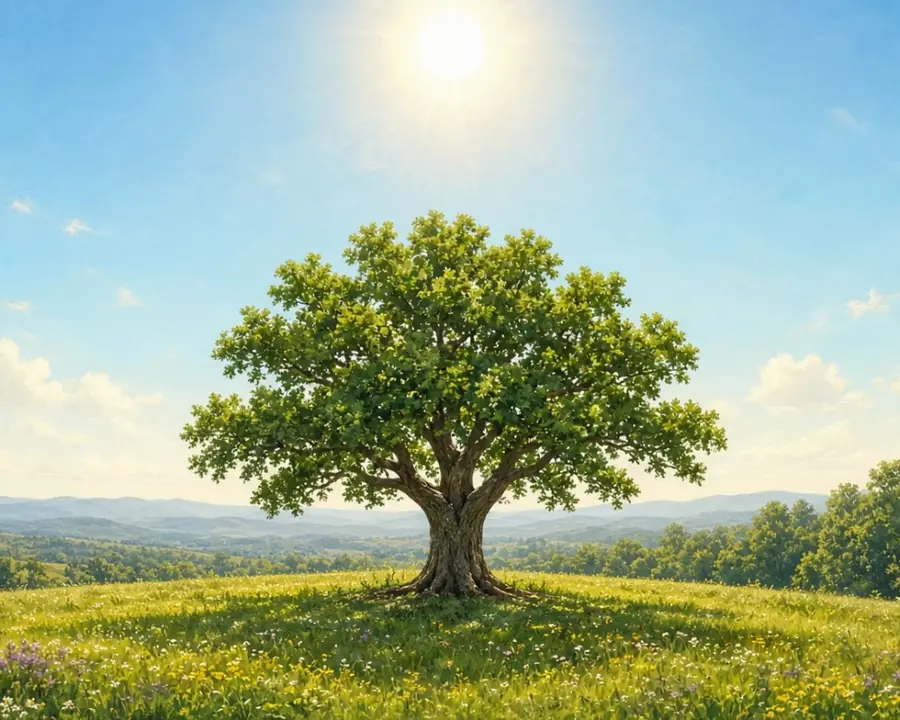
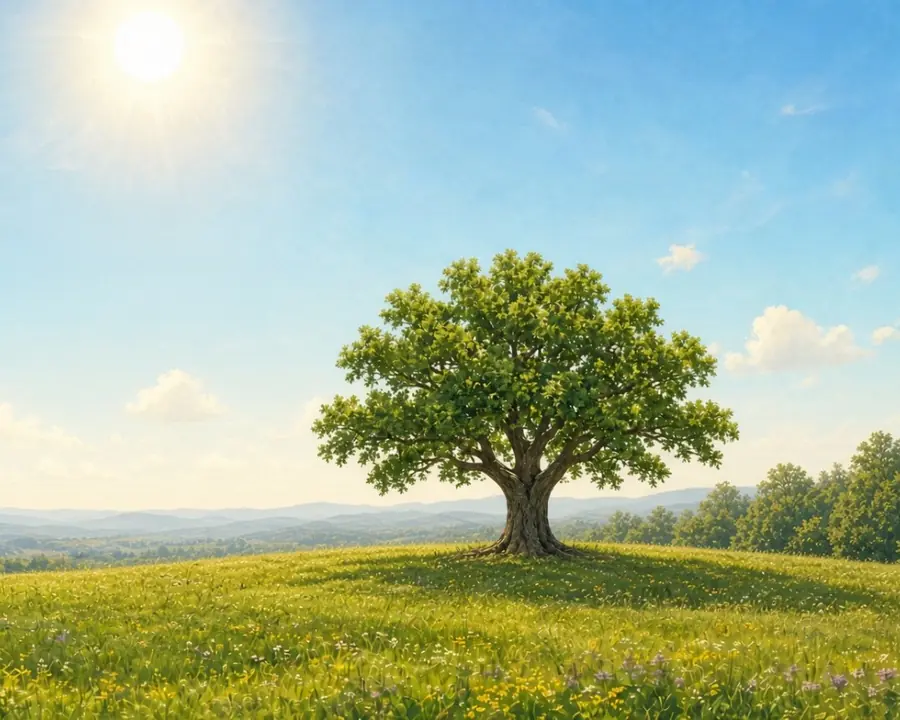
BLD 755: Oak hero with the tree on the right, Birch in summer green (wide and phone), Oak and Birch marks recut
Claude-Session: https://claude.ai/code/session_01WcZgsAiFdTphwpdYq1mWZF

diff --git a/oak/index.html b/oak/index.html
@@ -1000,7 +1000,7 @@ html.ts-2 main{zoom:1.25;}
   <nav class="site-menu" id="site-menu" aria-label="Grounded"><a href="https://growwithgrounded.com/">Home</a><a href="https://growwithgrounded.com/services.html">Services</a><a href="https://growwithgrounded.com/tools.html">Tools</a><a href="https://growwithgrounded.com/stories.html">Stories</a><a href="https://growwithgrounded.com/about.html">About</a><a href="https://growwithgrounded.com/contact.html">Contact</a></nav>
 </div></header>
 
-<section class="gg-hero gg-photo" id="top" aria-labelledby="hero-title" style="--band:#3D5A73;--band-dark:#31485C;--soft:#F6E7CC;--btn-ink:#3D5A73;--sky:#85BDE0;--pw:url('/shared/heroes/oak-wide.webp');--pn:url('/shared/heroes/oak-phone.webp');--px:50%">
+<section class="gg-hero gg-photo" id="top" aria-labelledby="hero-title" style="--band:#3D5A73;--band-dark:#31485C;--soft:#F6E7CC;--btn-ink:#3D5A73;--sky:#85BDE0;--pw:url('/shared/heroes/oak-wide.webp');--pn:url('/shared/heroes/oak-phone.webp');--px:72%">
   <div class="gg-hero-text">
     <div class="gg-hero-lock"><img class="gg-hero-mark" src="/shared/marks/oak.svg" alt="" width="64" height="64"><h1 id="hero-title">Oak<sup>&trade;</sup></h1></div>
     <p class="gg-hero-by"><a href="https://growwithgrounded.com/">by Grow With Grounded</a></p>
